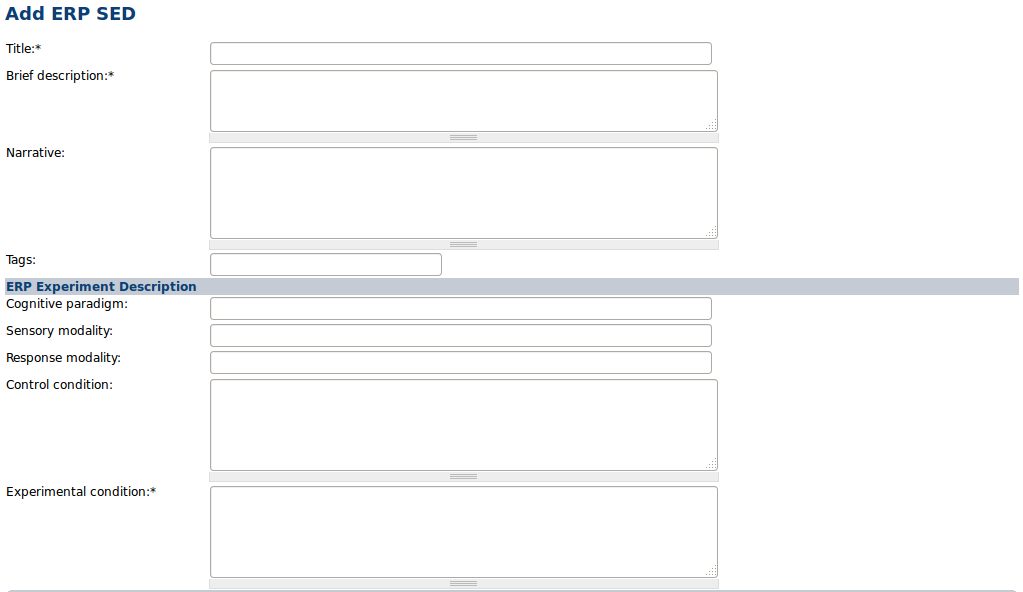
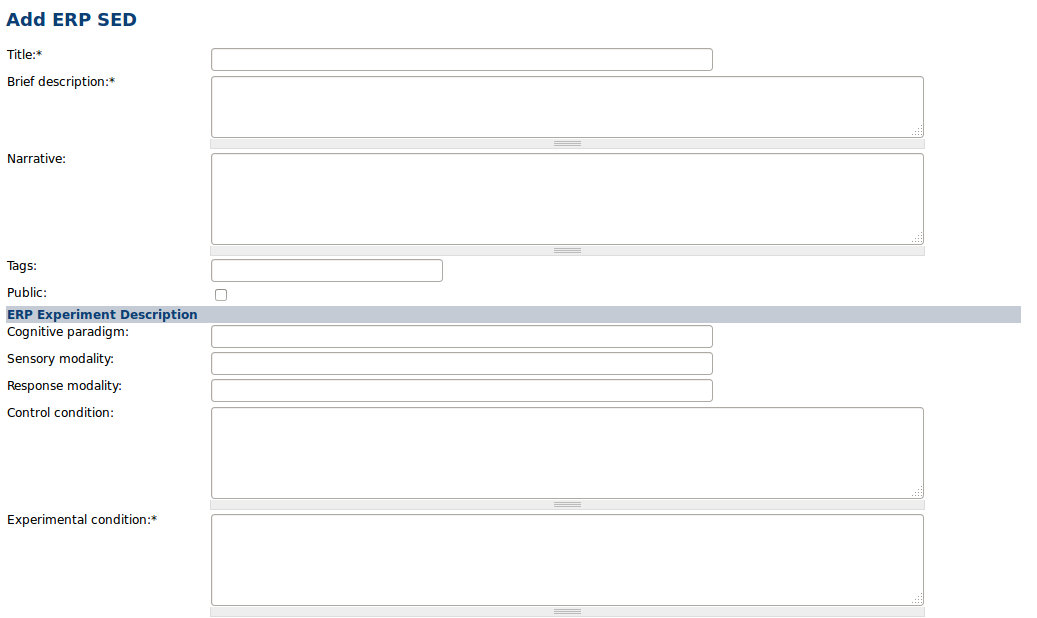
added draft of docs for workspace

diff --git a/bodb/docs/insert_data.rst b/bodb/docs/insert_data.rst
@@ -62,7 +62,7 @@ Clicking on the "Save" button will save the entry in the BODB database and redir
 Insert BOP
 -----------------
 
-A form for populating BODB with BOPs will be described here that is shown after clicking on the "Brain Operating Principle" link in the Insert page. Click on the "Save Draft" button to save a draft of the present principle to the BODB database. The principal draft will also be available to edit at a later time and will be listed in the Workspace for convenience.
+A form for populating BODB with BOPs will be described here that is shown after clicking on the "Brain Operating Principle" link in the Insert page.
 
 .. figure:: images/add_bop.png
     :align: center
@@ -89,6 +89,10 @@ A full length description of the present principle.
 Tags
 ^^^^
 A list of keywords associated with this BOP entry.
+
+Public
+^^^^^^
+This button will only show if the user has permissions to make an entry public. If so, then the user can click check this box and the entry will display to the general public and not just logged in users of BODB.
 
 Figures
 ^^^^^^^
@@ -189,10 +193,14 @@ To link an existing Literature entry to the current BOP, click on the "Search" l
 
 Clicking "Remove" will remove the Reference from the BOP.
 
+Save
+^^^^
+Click on the "Save Draft" button to save a draft of the present entry to the BODB database. The principal draft will also be available to edit at a later time and will be listed in the Workspace for convenience. If the use has permissions to publish the entry, then they can click the "Save" button and publish directly. Without permissions, this button is unavailable and the user must contact the adminstrator to publish the entry. 
+
 Insert Model
 ------------
 
-A form for populating BODB with Models will be described here that is shown after clicking on the “Model” link in the Insert page. Click on the “Save Draft” button to save a draft of the present principle to the BODB database. The principal draft will also be available to edit at a later time and will be listed in the Workspace for convenience.
+A form for populating BODB with Models will be described here that is shown after clicking on the “Model” link in the Insert page.
 
 .. figure:: images/add_model.png
     :align: center
@@ -225,6 +233,10 @@ The Narrative reviews "how the model works" and "what the model does". It will t
 Tags
 ^^^^
 A list of keywords associated with this Model entry.
+
+Public
+^^^^^^
+This button will only show if the user has permissions to make an entry public. If so, then the user can click check this box and the entry will display to the general public and not just logged in users of BODB.
 
 Architecture
 ^^^^^^^^^^^^
@@ -379,6 +391,10 @@ To link an existing Literature entry to the current Model, click on the "Search"
 
 Clicking "Remove" will remove the Reference from the Model.
 
+Save
+^^^^
+Click on the "Save Draft" button to save a draft of the present entry to the BODB database. The principal draft will also be available to edit at a later time and will be listed in the Workspace for convenience. If the use has permissions to publish the entry, then they can click the "Save" button and publish directly. Without permissions, this button is unavailable and the user must contact the adminstrator to publish the entry. 
+
 Insert SED
 ----------
 
@@ -422,6 +438,11 @@ A full length description of the SED. The narrative must be detailed enough to p
 
 A list of keywords associated with this SED entry.
 
+*Public*
+
+This button will only show if the user has permissions to make an entry public. If so, then the user can click check this box and the entry will display to the general public and not just logged in users of BODB.
+
+
 Summary of Brain Imaging Summary Data
 ^^^^^^^^^^^^^^^^^^^^^^^^^^^^^^^^^^^^^
 BODB is intended to serve also as an experimental-data repository. In addition to the generic SED entry form, it provides an explicit storage and user interface for tables of brain imaging data based on Talairach coordinates. Although brain imaging data are often supplied in table format, different articles may differ in the number, labeling and layout of columns, and differ in the freeform description of the experimental conditions of that table. Moreover, article data files are in various formats such as PDF, HTML and Microsoft Word. Therefore, it is difficult to provide a tool that automatically reads the data file, excerpts the whole table and its description, then marshals and puts these data into BODB properly. Our solution for importing the table is to provide a structured input form for pasting the table’s description and data, and specifying metadata (column configuration). The structure of the input form and the metadata will assist the user populate the table data correctly.
@@ -448,6 +469,10 @@ A full length description of the SED. The narrative must be detailed enough to p
 *Tags*
 
 A list of keywords associated with this SED entry.
+
+*Public*
+
+This button will only show if the user has permissions to make an entry public. If so, then the user can click check this box and the entry will display to the general public and not just logged in users of BODB.
 
 *Method*
 
@@ -504,6 +529,10 @@ A full length description of the SED. The narrative must be detailed enough to p
 
 A list of keywords associated with this SED entry.
 
+*Public*
+
+This button will only show if the user has permissions to make an entry public. If so, then the user can click check this box and the entry will display to the general public and not just logged in users of BODB.
+
 *ERP Experiment Desciption*
 
 Lorem ipsum...
@@ -538,6 +567,10 @@ A full length description of the SED. The narrative must be detailed enough to p
 *Tags*
 
 A list of keywords associated with this SED entry.
+
+*Public*
+
+This button will only show if the user has permissions to make an entry public. If so, then the user can click check this box and the entry will display to the general public and not just logged in users of BODB.
 
 *Source Region*
 
@@ -601,3 +634,7 @@ References to articles, books chapters, etc., relevant to this SED. Clicking on 
 To link an existing Literature entry to the current SED, click on the "Search" link. This will open the Literature Search window where "Select" link next to any search result can be clicked to link it to the current SED entry. Click on "Add new" link to create a new Literature entry and automatically add it to the References Section.
 
 Clicking "Remove" will remove the Reference from the SED.
+
+Save
+^^^^
+Click on the "Save Draft" button to save a draft of the present entry to the BODB database. The principal draft will also be available to edit at a later time and will be listed in the Workspace for convenience. If the use has permissions to publish the entry, then they can click the "Save" button and publish directly. Without permissions, this button is unavailable and the user must contact the adminstrator to publish the entry. 

diff --git a/bodb/docs/workspaces.rst b/bodb/docs/workspaces.rst
@@ -1,4 +1,112 @@
 Workspaces
 ==============
 
+In BODB, we have introduced the idea of Collaborative Workspaces (CoWos) to fascilitate collaboration and sharing of ideas. The workspace page allows a user to view and create any number of workspaces.
+
+.. figure:: images/workspace.png
+    :align: center
+    :figclass: align-center
+
+    Workspace page
+    
+Selecting and Creating Workspaces
+---------------------------------
+    
+Selecting a Workspace
+^^^^^^^^^^^^^^^^^^^^^
+
+Clicking on the radio button next to a workspace will make that workspace the active workspace. In the top right hand corner, the user information displays the active workspace.
+
+New Workspace
+^^^^^^^^^^^^^
+
+Clicking new will allow the user to add a workspace provided a Title and Description.
+
+.. figure:: images/add_workspace.png
+    :align: center
+    :figclass: align-center
+
+    Add a Workspace
+
+Adding an Entry to a Workspace
+------------------------------
+
+In any list view (e.g., when a search is conducted) the user can check the second box from the left to add an entry to the currently active Workspace.
+
+Clicking new will allow the user to add a workspace provided a Title and Description.
+
+.. figure:: images/add_to_workspace.png
+    :align: center
+    :figclass: align-center
+
+    Add an entry to a Workspace
+
+Workspace Tabs
+--------------
+
+Clicking the Workspace in the list view or in the user information to the top right will direct the user to that particular Workspace where there are tabs for Activity, Entries, Coordinates, Bookmarks, Discussion, and Admin.
+
+Activity
+^^^^^^^^
+
+The Activity tab will show the activity of all users actions on a given Workspace.
+
+.. figure:: images/workspace_activity_tab.png
+    :align: center
+    :figclass: align-center
+
+    Workspace Activity tab
+
+Entries
+^^^^^^^^
+
+The Entries tab will show all entries that have been added to the Workspace.
+
+.. figure:: images/workspace_entries_tab.png
+    :align: center
+    :figclass: align-center
+
+    Workspace Entries tab
+
+Coordinates
+^^^^^^^^^^^
+
 Lorem ipsum...
+
+.. figure:: images/workspace_coordinate_tab.png
+    :align: center
+    :figclass: align-center
+
+    Workspace Coordinates tab
+    
+Bookmarks
+^^^^^^^^^
+
+The bookmarks tab allows users to store urls that are relevant to the Workspace by adding a Title, URL, and Description 
+
+.. figure:: images/workspace_bookmarks_tab.png
+    :align: center
+    :figclass: align-center
+
+    Workspace Bookmarks tab
+
+Discussion
+^^^^^^^^^^
+
+The Discussion tab allows users assigned to a workspace to maintain a thread of relevant discussion. To post a new thread, simply enter text in the textfield and the click Post. To reply to a given thread, press the Reply buttonand then post the reply.
+
+.. figure:: images/workspace_discussion_tab.png
+    :align: center
+    :figclass: align-center
+
+    Workspace Discussion tab
+    
+Admin
+^^^^^
+The Admin tab allows the creator of the Workspace to invite other users to participate in the CoWo.
+
+.. figure:: images/workspace_admin_tab.png
+    :align: center
+    :figclass: align-center
+
+    Workspace Admin tab

diff --git a/bodb/docs/index.rst b/bodb/docs/index.rst
@@ -19,6 +19,7 @@ Contents:
    search_data
    visualization
    drafts
+   permissions
    favorites
    workspaces
    admin

diff --git a/bodb/docs/permissions.rst b/bodb/docs/permissions.rst
@@ -1,0 +1,4 @@
+Permissions
+===========
+
+Lorem ipsum...
